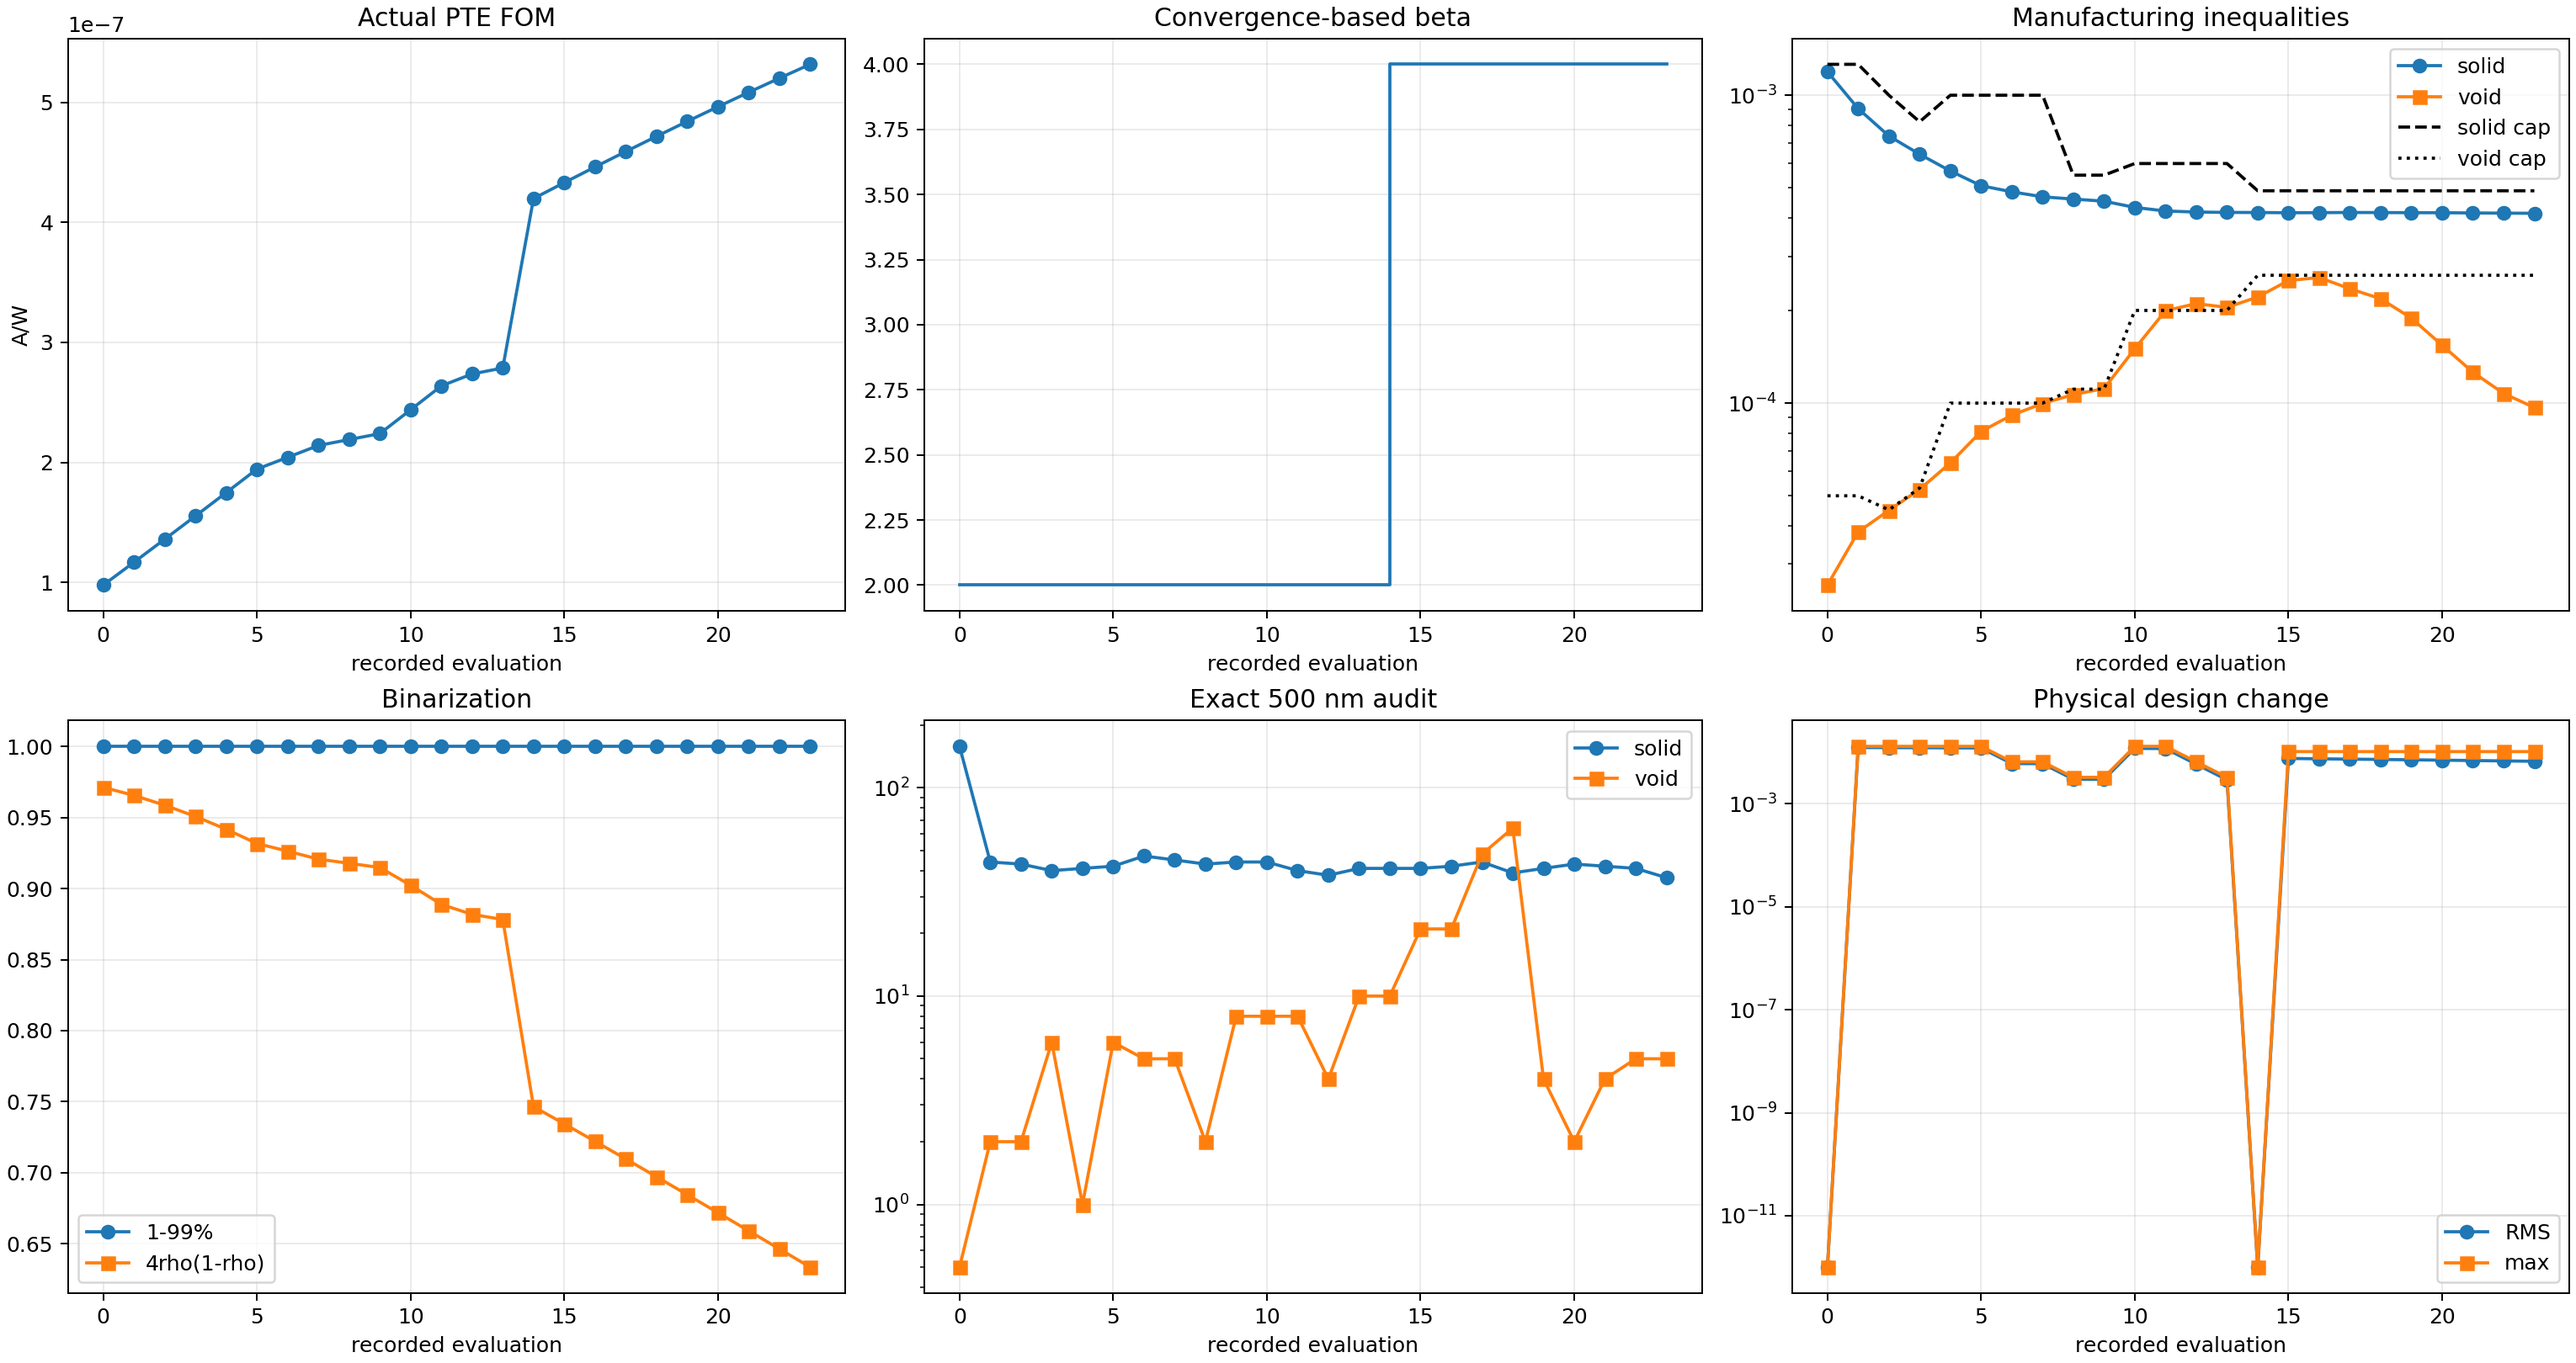
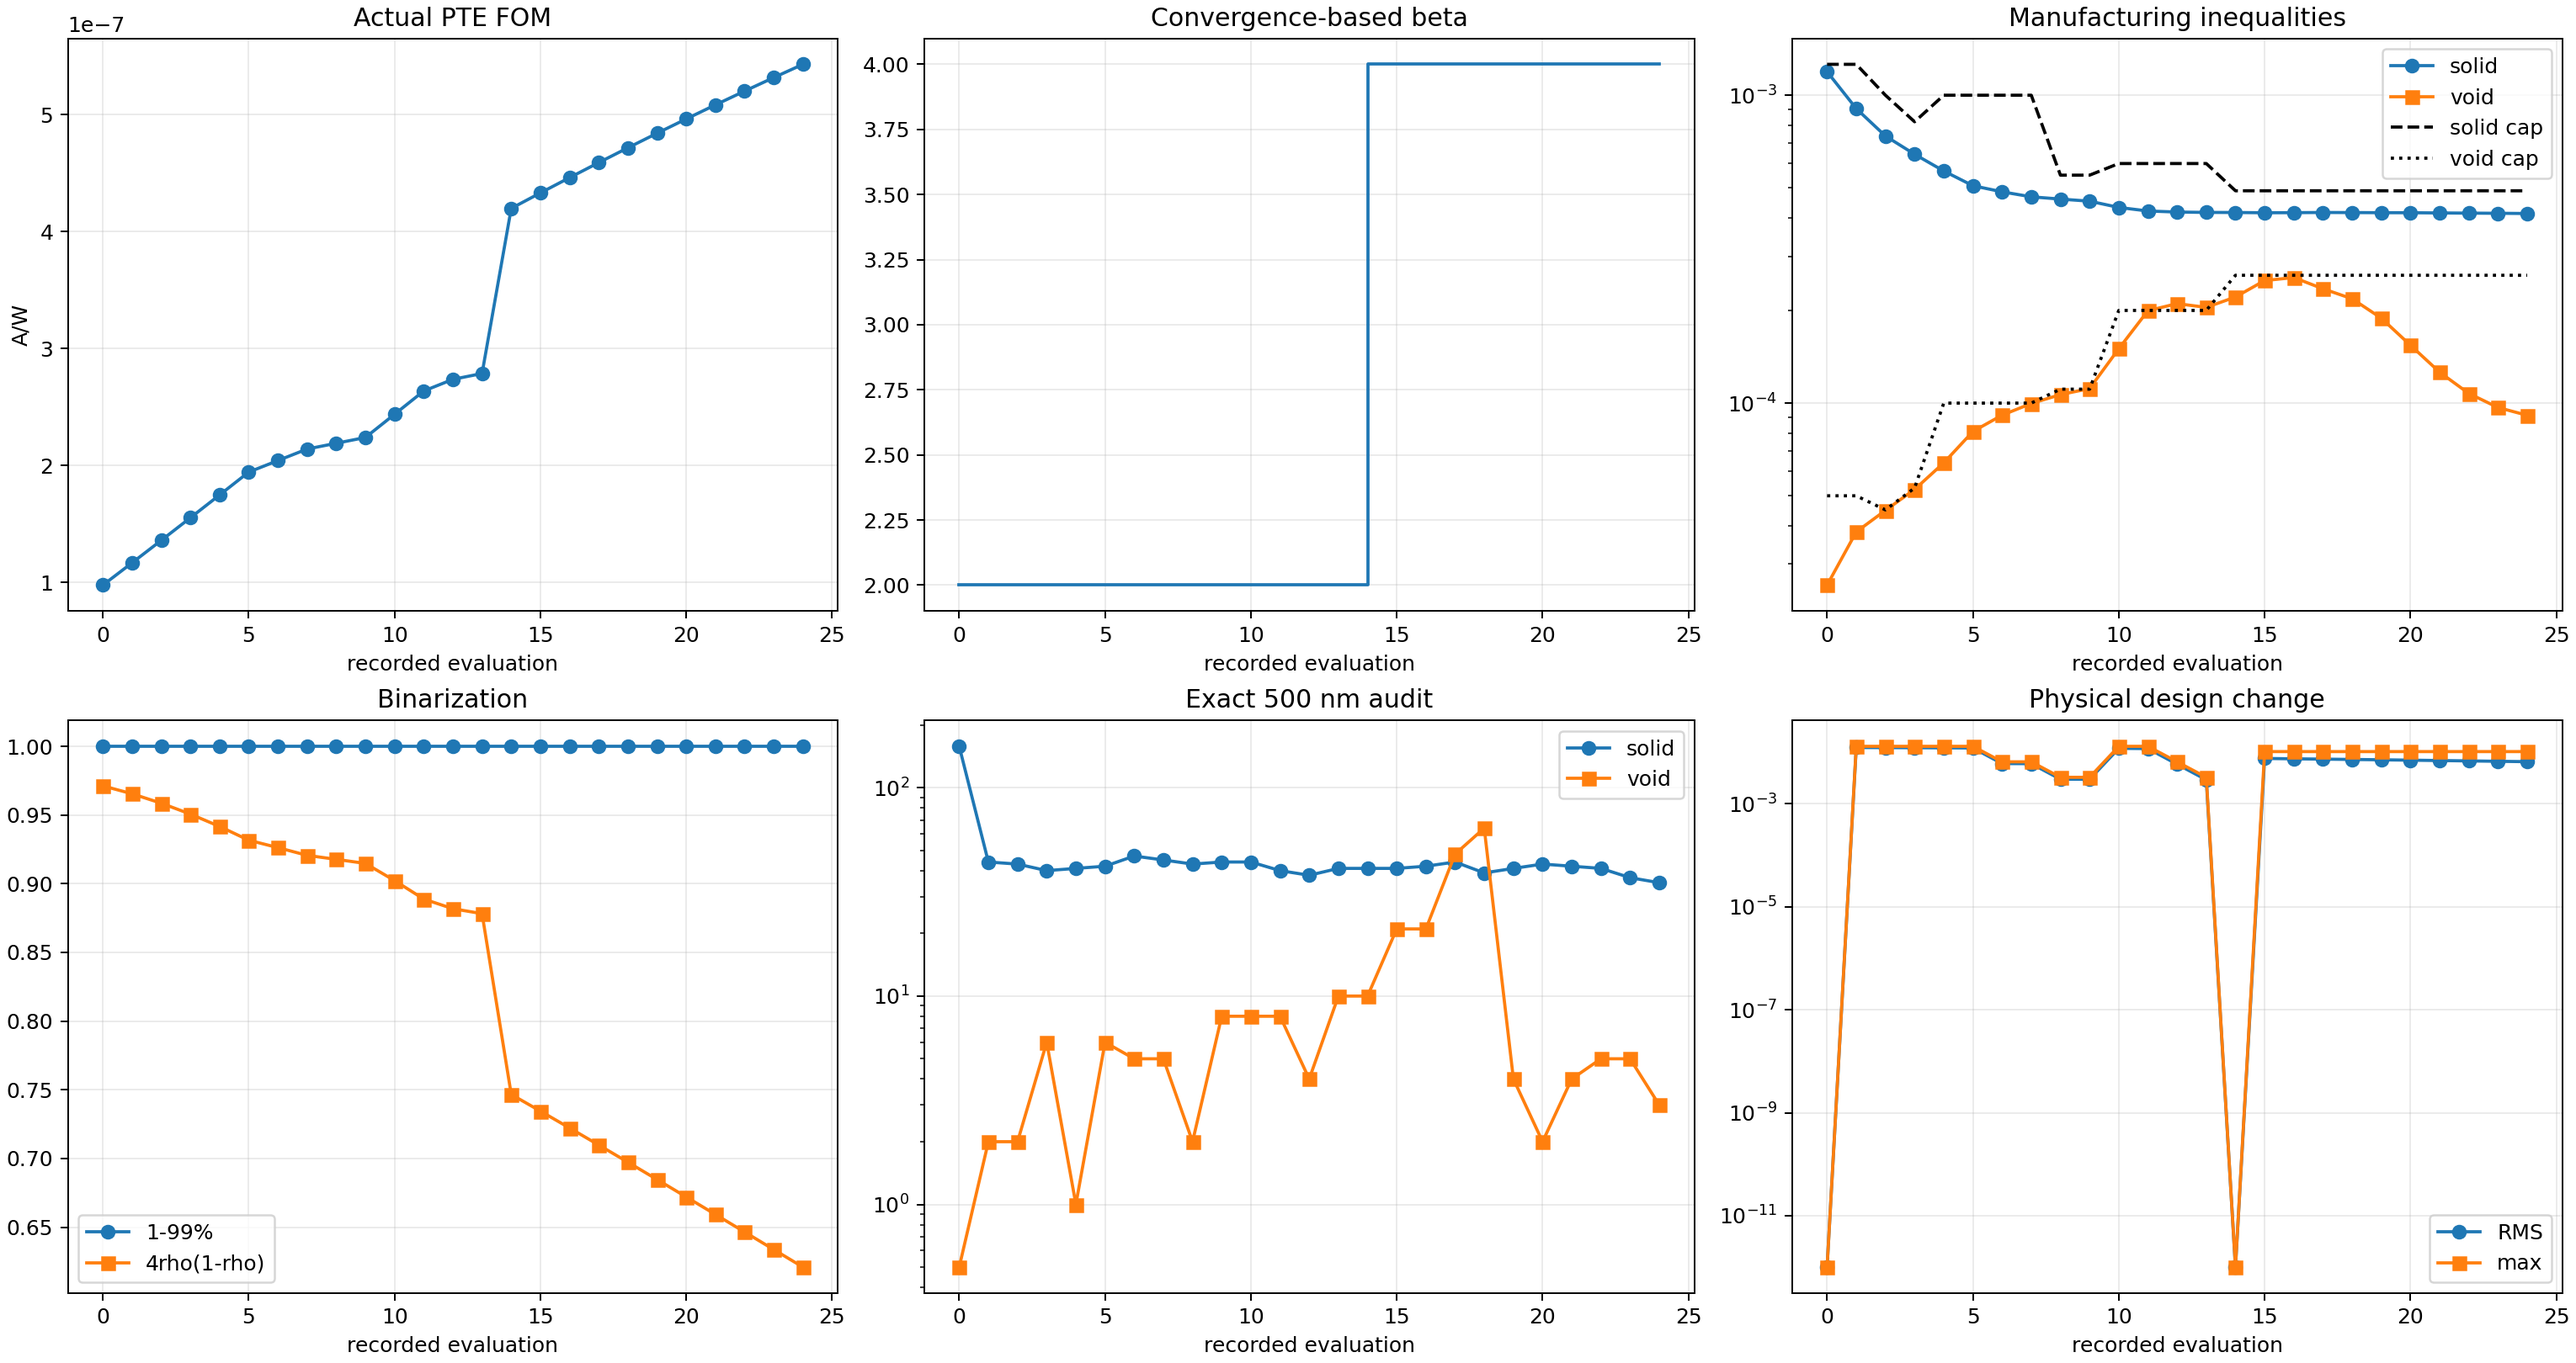
Record Run 005 run005_b004_s010_g023_accepted_mma

diff --git a/photothermal_pte/optimization_runs/run_005_lowbeta_topology_exploration_pilot/results/OPTIMIZATION_REPORT.md b/photothermal_pte/optimization_runs/run_005_lowbeta_topology_exploration_pilot/results/OPTIMIZATION_REPORT.md
@@ -2,12 +2,12 @@
 
 Status: `RUNNING_RUN005_FULL_BINARY_BETA_CONTINUATION`
 
-Current stage: beta=4, accepted stage iteration=9, global iteration=22.
+Current stage: beta=4, accepted stage iteration=10, global iteration=23.
 
 Constraint contract: `soft_disk_opening_500nm_from_iteration_zero_v5`.
 
-Actual FOM: `5.316302029748e-07 A/W`. Fixed-cap solid/void constraints: `4.135623e-04` / `9.676572e-05` with caps `4.894159e-04` / `2.601193e-04`.
+Actual FOM: `5.429563450427e-07 A/W`. Fixed-cap solid/void constraints: `4.129193e-04` / `9.128866e-05` with caps `4.894159e-04` / `2.601193e-04`.
 
-Exact 500 nm bad cells: solid `37`, void `5`. Stage convergence: `False` (recent FOM/density changes have not plateaued).
+Exact 500 nm bad cells: solid `35`, void `3`. Stage convergence: `False` (recent FOM/density changes have not plateaued).
 
 Beta advances only after the stage FOM/density plateau. The run is not complete until the projected-binary and exact 500 nm gates pass and a fresh thresholded-binary GPU/CUDA evaluation succeeds.
